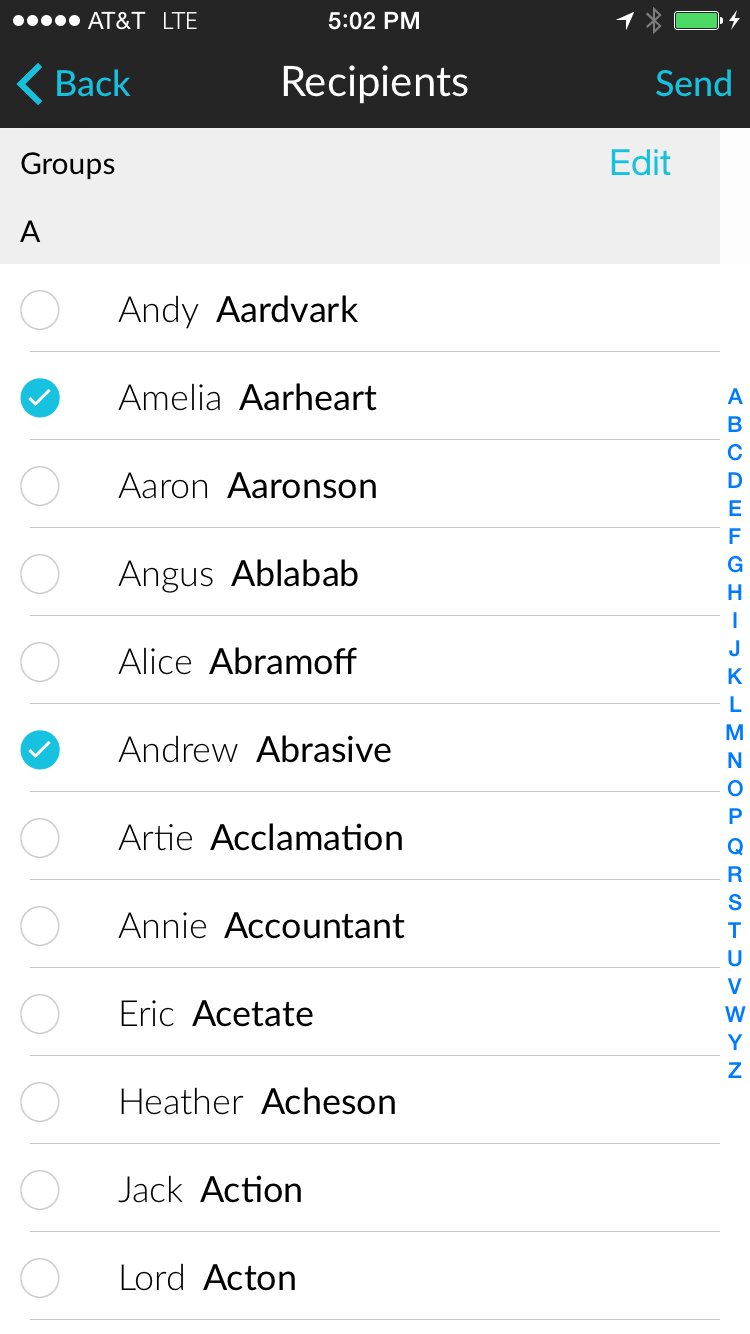
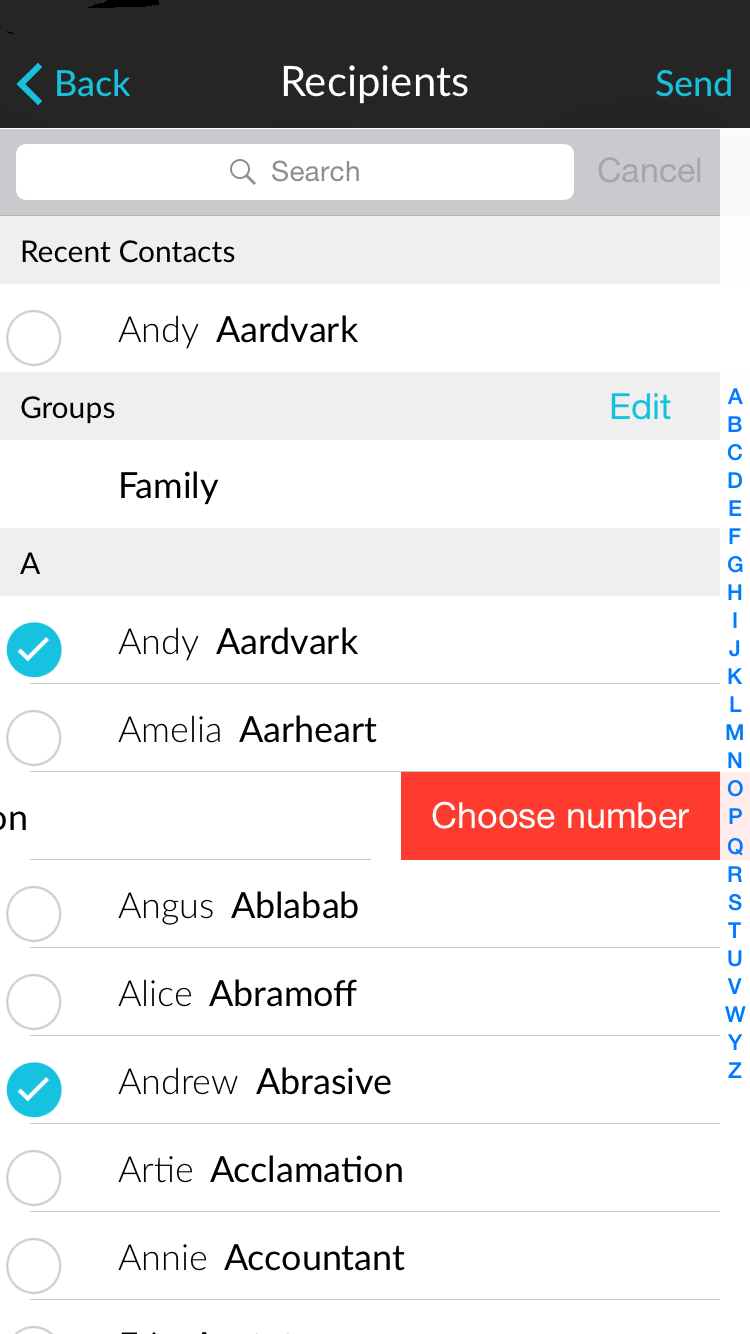
Various bug fixes

diff --git a/TextMuse3/CategoriesViewController.m b/TextMuse3/CategoriesViewController.m
@@ -40,8 +40,20 @@ NSArray* colors;
     [refreshControl addTarget:self action:@selector(refresh:) forControlEvents:UIControlEventValueChanged];
     [categories addSubview:refreshControl];
     
-    [[btnSuggestion1 titleLabel] setNumberOfLines:0];
-    [[btnSuggestion2 titleLabel] setNumberOfLines:0];
+    //[[btnSuggestion1 titleLabel] setNumberOfLines:0];
+    //[[btnSuggestion2 titleLabel] setNumberOfLines:0];
+    [btnSuggestion2 setFrame:CGRectMake([btnSuggestion2 frame].origin.x, [btnSuggestion2 frame].origin.y, [btnSuggestion1 frame].size.width, [btnSuggestion1 frame].size.height)];
+    CGRect frmLabel = CGRectMake(0, 0, [btnSuggestion1 frame].size.width, [btnSuggestion1 frame].size.height);
+    lblSuggestion1 = [[UILabel alloc] initWithFrame:frmLabel];
+    lblSuggestion2 = [[UILabel alloc] initWithFrame:frmLabel];
+    [lblSuggestion1 setFont:[[btnSuggestion1 titleLabel] font]];
+    [lblSuggestion2 setFont:[[btnSuggestion2 titleLabel] font]];
+    [lblSuggestion1 setTextAlignment:NSTextAlignmentCenter];
+    [lblSuggestion2 setTextAlignment:NSTextAlignmentCenter];
+    [lblSuggestion1 setTextColor:[UIColor whiteColor]];
+    [lblSuggestion2 setTextColor:[UIColor whiteColor]];
+    [btnSuggestion1 addSubview:lblSuggestion1];
+    [btnSuggestion2 addSubview:lblSuggestion2];
     
     UIImage* settings = [UIImage imageNamed:@"gear.png"];
     UIImage *scaledSettings =
@@ -100,7 +112,11 @@ NSArray* colors;
 }
 
 - (NSInteger)tableView:(UITableView *)tableView numberOfRowsInSection:(NSInteger)section {
-    return ((ChosenCategories == nil) ? [[Data getCategories] count] : [ChosenCategories count]);
+    NSInteger c = ((ChosenCategories == nil) ? [[Data getCategories] count] : [ChosenCategories count]);
+    if (c > [ChosenCategories count])
+        NSLog(@"why am i here?");
+    
+    return c;
 }
 
 - (CGFloat)tableView:(UITableView *)tableView heightForRowAtIndexPath:(NSIndexPath *)indexPath {
@@ -147,8 +163,7 @@ NSArray* colors;
     if (ChosenCategories != nil) {
         NSArray* cats = [Data getCategories];
         icategory = 0;
-        int ichosen = 0;
-        for (; icategory<[cats count] && ichosen <= selectedCategory; icategory++) {
+        for (int ichosen = 0; icategory<[cats count] && ichosen <= [cats count]; icategory++) {
             NSString* tmp = [cats objectAtIndex:icategory];
             if ([ChosenCategories containsObject:tmp]) {
                 if (ichosen == selectedCategory)
@@ -199,17 +214,32 @@ NSArray* colors;
                 [load load];
                 randomMessage = [Data chooseRandomMessage];
             }
-            if (([randomMessage text] == nil) || [[randomMessage text] length] == 0)
-                [btnSuggestion1 setTitle:@"" forState:UIControlStateNormal];
-            else
-                [btnSuggestion1 setTitle:[randomMessage text] forState:UIControlStateNormal];
-            if ([randomMessage mediaUrl] == nil) {
-                [btnSuggestion1 setBackgroundImage:nil forState:UIControlStateNormal];
-                [btnSuggestion1 setTitle:[randomMessage text] forState:UIControlStateNormal];
+            if (([randomMessage text] == nil) || [[randomMessage text] length] == 0) {
+                //[btnSuggestion1 setTitle:@"" forState:UIControlStateNormal];
+                [lblSuggestion1 setText:@""];
+                [lblSuggestion1 setHidden:YES];
             }
             else {
+                //[btnSuggestion1 setTitle:[randomMessage text] forState:UIControlStateNormal];
+                [lblSuggestion1 setText:[randomMessage text]];
+                [lblSuggestion1 setHidden:NO];
+            }
+            if ([randomMessage mediaUrl] == nil) {
+                [btnSuggestion1 setBackgroundImage:nil forState:UIControlStateNormal];
+                [lblSuggestion1 setFrame:CGRectMake(4, 4, [btnSuggestion1 frame].size.width-8, [btnSuggestion1 frame].size.height-8)];
+                //[btnSuggestion1 setTitle:[randomMessage text] forState:UIControlStateNormal];
+                [lblSuggestion1 setBackgroundColor:[UIColor clearColor]];
+                [lblSuggestion1 setNumberOfLines:0];
+                [lblSuggestion1 setAlpha:1];
+            }
+            else {
+                CGRect frm = CGRectMake(0, [btnSuggestion1 frame].size.height-22, [btnSuggestion1 frame].size.width, 22);
+                [lblSuggestion1 setFrame:frm];
                 [btnSuggestion1 setBackgroundImage:[UIImage imageWithData:[randomMessage img]]
                                          forState:UIControlStateNormal];
+                [lblSuggestion1 setNumberOfLines:1];
+                [lblSuggestion1 setBackgroundColor:[UIColor grayColor]];
+                [lblSuggestion1 setAlpha:0.70];
             }
             
             [self fadein];
@@ -224,18 +254,34 @@ NSArray* colors;
                 [load load];
                 randomMessage = [Data chooseRandomMessage];
             }
-            if (([randomMessage text] == nil) || [[randomMessage text] length] == 0)
-                [btnSuggestion2 setTitle:@"" forState:UIControlStateNormal];
-            else
-                [btnSuggestion2 setTitle:[randomMessage text] forState:UIControlStateNormal];
-            if ([randomMessage img] == nil) {
-                [btnSuggestion2 setBackgroundImage:nil forState:UIControlStateNormal];
-                [btnSuggestion2 setTitle:[randomMessage text] forState:UIControlStateNormal];
+            if (([randomMessage text] == nil) || [[randomMessage text] length] == 0) {
+                //[btnSuggestion2 setTitle:@"" forState:UIControlStateNormal];
+                [lblSuggestion2 setText:@""];
+                [lblSuggestion2 setHidden:YES];
             }
             else {
+                //[btnSuggestion2 setTitle:[randomMessage text] forState:UIControlStateNormal];
+                [lblSuggestion2 setText:[randomMessage text]];
+                [lblSuggestion2 setHidden:NO];
+            }
+            if ([randomMessage img] == nil) {
+                [btnSuggestion2 setBackgroundImage:nil forState:UIControlStateNormal];
+                [lblSuggestion2 setFrame:CGRectMake(4, 4, [btnSuggestion2 frame].size.width-8, [btnSuggestion2 frame].size.height-8)];
+                //[btnSuggestion2 setTitle:[randomMessage text] forState:UIControlStateNormal];
+                [lblSuggestion2 setBackgroundColor:[UIColor clearColor]];
+                [lblSuggestion2 setNumberOfLines:0];
+                [lblSuggestion2 setAlpha:1];
+            }
+            else {
+                CGRect frm = CGRectMake(0, [btnSuggestion2 frame].size.height-22, [btnSuggestion2 frame].size.width, 22);
+                [lblSuggestion2 setFrame:frm];
                 [btnSuggestion2 setBackgroundImage:[UIImage imageWithData:[randomMessage img]]
                                           forState:UIControlStateNormal];
+                [lblSuggestion2 setBackgroundColor:[UIColor grayColor]];
+                [lblSuggestion2 setNumberOfLines:1];
+                [lblSuggestion2 setAlpha:0.70];
             }
+            
             
             [self fadeout];
             
@@ -298,7 +344,7 @@ NSArray* colors;
     CGRect frmClose = CGRectMake(frmView.size.width-60, 10, 50, 30);
     UIButton* btnClose = [[UIButton alloc] initWithFrame:frmClose];
     [btnClose setTitleColor:[UIColor blueColor] forState:UIControlStateNormal];
-    [btnClose setTitle:@"done" forState:UIControlStateNormal];
+    [btnClose setTitle:@"Done" forState:UIControlStateNormal];
     [[btnClose titleLabel] setFont:[UIFont fontWithName:@"Lato-Regular" size:15]];
     [btnClose addTarget:self action:@selector(closeWalkthrough:)
        forControlEvents:UIControlEventTouchUpInside];
@@ -328,9 +374,9 @@ NSArray* colors;
     NSString* txts[] = {
         @"Choose a category to find a text message you want to send your friends.",
         @"Swipe through and touch the text message you want to send.",
-        @"After choosing a text, your contacts will appear. Choose a contact or select a few and touch 'SEND'.",
+        @"After choosing a text, choose a contact or select a few and touch 'SEND'.",
         @"... and before you send it, you can make edits to give it that personal touch.",
-        @"Touch the cog to personalize TextMuse – choose your favorite categories, adjust settings and send us your feedback!"
+        @"Touch the cog to personalize TextMuse. Adjust settings and send us your feedback!"
     };
     CGFloat txtHeight = 50;
     frmScroll.size.height -= frmScroll.origin.y;
@@ -359,7 +405,7 @@ NSArray* colors;
         UILabel* lbl = [[UILabel alloc] initWithFrame:frmText];
         //[lbl sizeToFit];
         [lbl setText:txts[i]];
-        CGFloat fntSize = frmText.size.width > 320 ? 20 : 16;
+        CGFloat fntSize = frmText.size.width > 330 ? 18 : 14;
         [lbl setFont:[UIFont fontWithName:@"Lato-Regular" size:fntSize]];
         [lbl setTextColor:[UIColor blackColor]];
         [lbl setTextAlignment:NSTextAlignmentCenter];

diff --git a/TextMuse3/DataAccess.m b/TextMuse3/DataAccess.m
@@ -85,14 +85,15 @@ NSString* localNotes = @"notes.xml";
     NSString* file = [NSTemporaryDirectory() stringByAppendingPathComponent:localNotes];
     categoryOrder = [[NSMutableArray alloc] init];
 
-    if (![[NSFileManager defaultManager] fileExistsAtPath:file]) {
-        inetdata = [NSMutableData dataWithData:[[self createFile] dataUsingEncoding:NSUTF8StringEncoding]];
-    }
-    else {
-        inetdata = [NSMutableData dataWithContentsOfFile:file];
-    }
-    
     @try {
+        if (![[NSFileManager defaultManager] fileExistsAtPath:file]) {
+            inetdata = [NSMutableData dataWithData:[[self createFile]
+                                                    dataUsingEncoding:NSUTF8StringEncoding]];
+        }
+        else {
+            inetdata = [NSMutableData dataWithContentsOfFile:file];
+        }
+    
         [self parseMessageData];
     }
     @catch (id ex) {
@@ -230,18 +231,21 @@ NSString* localNotes = @"notes.xml";
 }
 
 -(void)connectionDidFinishLoading:(NSURLConnection*) conn {
-    NSString* file = [NSTemporaryDirectory() stringByAppendingPathComponent:localNotes];
-    [[NSFileManager defaultManager] createFileAtPath:file
-                                            contents:inetdata
-                                          attributes:nil];
-
     //Now that we have data from the server, re-initialize Categories to an empty dictionary
-    [self parseMessageData];
-    
-    for (NSObject* l in listeners) {
-        if ([l respondsToSelector:@selector(dataRefresh)])
-            [l performSelector:@selector(dataRefresh)];
+    @try {
+        [self parseMessageData];
+        
+        NSString* file = [NSTemporaryDirectory() stringByAppendingPathComponent:localNotes];
+        [[NSFileManager defaultManager] createFileAtPath:file
+                                                contents:inetdata
+                                              attributes:nil];
+        
+        for (NSObject* l in listeners) {
+            if ([l respondsToSelector:@selector(dataRefresh)])
+                [l performSelector:@selector(dataRefresh)];
+        }
     }
+    @catch(id ex) {; }
 }
 
 -(void)parseMessageData {
@@ -645,12 +649,15 @@ NSString* localNotes = @"notes.xml";
             [Settings SaveSetting:SettingKnownCategories withValue:KnownCategories];
             [Settings SaveSetting:SettingNotificationMsgs withValue:NotificationMsgs];
             
+            NSMutableArray* removeChosen = [[NSMutableArray alloc] init];
             for (NSString* c in ChosenCategories) {
                 //Need to make sure the chosen categories are in the content
                 if ([tmpCategories objectForKey:c] == nil && ![c isEqualToString:@"Your Photos"] &&
                     ![c isEqualToString:@"Your Messages"])
-                    [ChosenCategories removeObject:c];
+                    [removeChosen addObject:c];
             }
+            for (NSString* r in removeChosen)
+                [ChosenCategories removeObject:r];
             [Settings SaveSetting:SettingChosenCategories withValue:ChosenCategories];
         }
     }

diff --git a/TextMuse3/ChoosePhoneView.m b/TextMuse3/ChoosePhoneView.m
@@ -33,12 +33,12 @@
     [lbl setText:@"Choose phone"];
     [lbl setFont:[UIFont fontWithName:@"Lato-Regular" size:18]];
     
-    CGRect frmClose = frmLbl;
-    frmClose.origin.x = 8;
-    frmClose.size.width = 22;
+    CGRect frmClose = CGRectMake(8, 0, 28, 28); // frmLbl;
+    //frmClose.origin.x = 8;
+    //frmClose.size.width = 22;
     UIButton* btnClose = [[UIButton alloc] initWithFrame:frmClose];
     [btnClose setTitle:@"X" forState:UIControlStateNormal];
-    [[btnClose titleLabel] setFont:[UIFont fontWithName:@"Lato-Regular" size:18]];
+    [[btnClose titleLabel] setFont:[UIFont fontWithName:@"Lato-Regular" size:24]];
     [btnClose setTitleColor:[UIColor colorWithRed:22.0/256 green:194.0/256 blue:223./256 alpha:1.0]
                    forState:UIControlStateNormal];
     [btnClose addTarget:self action:@selector(close:) forControlEvents:UIControlEventTouchUpInside];

diff --git a/TextMuse3/Settings.m b/TextMuse3/Settings.m
@@ -157,7 +157,7 @@ NSString* AppID;
 
         //[Settings SaveSetting:SettingSortLastName withValue:SortLastName ? @"YES" : @"NO"];
         if ([defs stringForKey:SettingSortLastName] != nil)
-            SortLastName = [[defs stringForKey:SettingSortLastName] isEqualToString:@"NO"];
+            SortLastName = [[defs stringForKey:SettingSortLastName] isEqualToString:@"YES"];
 
         //[defs setObject:nil forKey:SettingRecentMessages];
         if ([defs arrayForKey:SettingRecentMessages] != nil) {

diff --git a/TextMuse3/ContactsTableViewController.m b/TextMuse3/ContactsTableViewController.m
@@ -220,6 +220,7 @@ NSMutableArray* searchContacts;
             [btncheck setFrame:frmBtn];
             [btncheck addTarget:self action:@selector(check:) forControlEvents:UIControlEventTouchUpInside];
             [btncheck setExtra:contact];
+            [btncheck setSelected:[checkedContacts containsObject:contact]];
         
             if ([btncheck tag] == 0 && tableView == contacts) {
                 [btncheck setTag:102];

diff --git a/TextMuse3/CategoriesViewController.h b/TextMuse3/CategoriesViewController.h
@@ -28,6 +28,8 @@ extern NSArray* colors;
     IBOutlet UITableView* categories;
     IBOutlet UIButton* btnSuggestion1;
     IBOutlet UIButton* btnSuggestion2;
+    IBOutlet UILabel* lblSuggestion1;
+    IBOutlet UILabel* lblSuggestion2;
     UIRefreshControl *refreshControl;
     UIView* walkthroughView;
     UIPageControl* pages;
